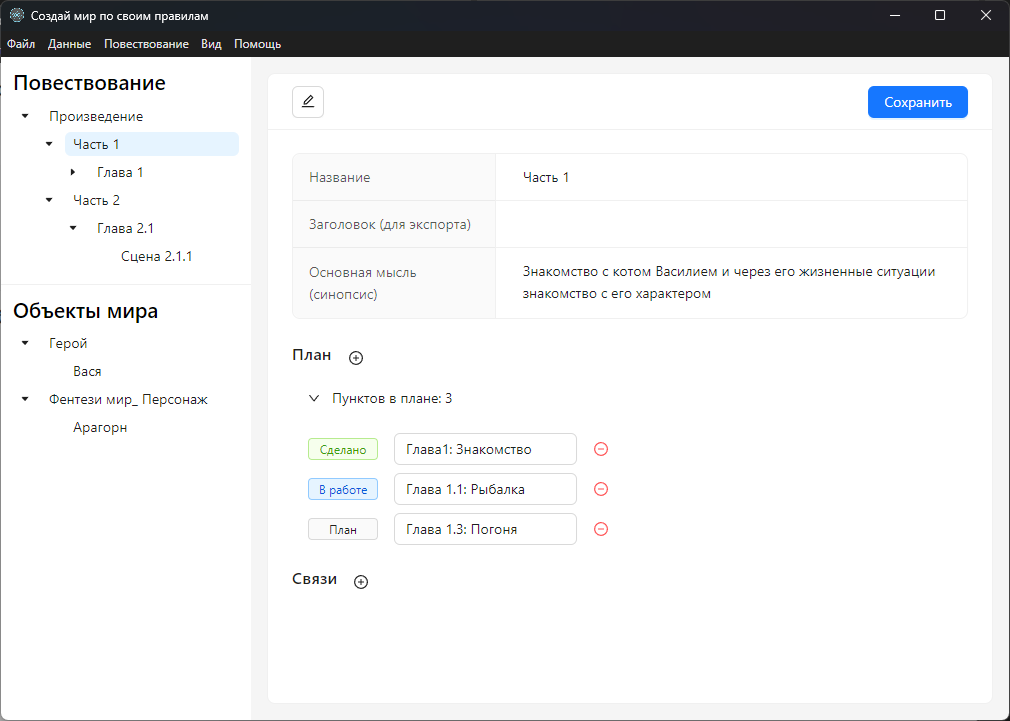
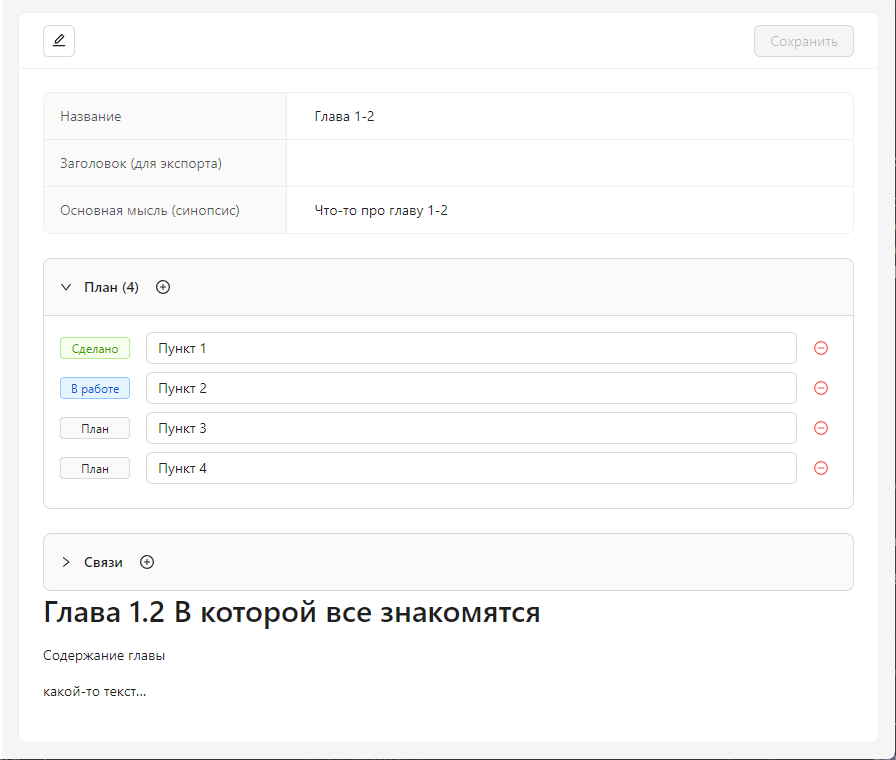
Redesign list data blocks

diff --git a/src/renderer/components/ContentDisplay/components/NarrativeDetails.tsx b/src/renderer/components/ContentDisplay/components/NarrativeDetails.tsx
@@ -1,5 +1,12 @@
 import React, { useState } from 'react';
-import { Input, Collapse, Button, Space, Tooltip, Descriptions } from 'antd';
+import {
+  Input,
+  Collapse,
+  Button,
+  Tooltip,
+  Descriptions,
+  Typography,
+} from 'antd';
 import { PlusCircleOutlined } from '@ant-design/icons';
 import ChecklistEditor from '../../ChecklistEditor';
 import AddPlanItemModal from '../../AddPlanItemModal';
@@ -34,7 +41,6 @@ const NarrativeDetails: React.FC<NarrativeDetailsProps> = ({
   const [isModalVisible, setIsModalVisible] = useState(false);
 
   const planItemsCount = plan ? plan.split('\n').filter(Boolean).length : 0;
-  const panelHeader = `Пунктов в плане: ${planItemsCount}`;
 
   const handleAddPlanItem = (newItems: string[]) => {
     if (newItems.length === 0) {
@@ -81,32 +87,41 @@ const NarrativeDetails: React.FC<NarrativeDetailsProps> = ({
           </Descriptions.Item>
         </Descriptions>
       </div>
-      <br />
 
-      <div>
-        <Space>
-          <h3>План</h3>
-          <Tooltip title="Добавить новый пункт плана">
-            <Button
-              type="text"
-              shape="circle"
-              icon={<PlusCircleOutlined />}
-              onClick={() => setIsModalVisible(true)}
-            />
-          </Tooltip>
-        </Space>
-      </div>
-      {planItemsCount > 0 && (
-        <Collapse
-          activeKey={planCollapseKey}
-          onChange={onPlanCollapseChange}
-          ghost
+      <Collapse
+        activeKey={planCollapseKey}
+        onChange={onPlanCollapseChange}
+        style={{ marginTop: '24px', marginBottom: '24px' }}
+        defaultActiveKey={['1']}
+      >
+        <Collapse.Panel
+          header={
+            <div className="uniform-collapse-header">
+              <Typography.Text strong>
+                План {planItemsCount > 0 && `(${planItemsCount})`}
+              </Typography.Text>
+              <Tooltip title="Добавить новый пункт плана">
+                <Button
+                  type="text"
+                  shape="circle"
+                  icon={<PlusCircleOutlined />}
+                  onClick={(e) => {
+                    e.stopPropagation();
+                    setIsModalVisible(true);
+                  }}
+                />
+              </Tooltip>
+            </div>
+          }
+          key="1"
         >
-          <Collapse.Panel header={panelHeader} key="1">
+          {planItemsCount > 0 ? (
             <ChecklistEditor value={plan || ''} onChange={onPlanChange} />
-          </Collapse.Panel>
-        </Collapse>
-      )}
+          ) : (
+            <p>Пунктов в плане пока нет. Добавьте первый!</p>
+          )}
+        </Collapse.Panel>
+      </Collapse>
       <AddPlanItemModal
         visible={isModalVisible}
         onOk={handleAddPlanItem}

diff --git a/src/renderer/components/ContentDisplay/components/ConnectionsManager.tsx b/src/renderer/components/ContentDisplay/components/ConnectionsManager.tsx
@@ -8,6 +8,7 @@ import {
   Collapse,
   Dropdown,
   Menu,
+  Typography,
 } from 'antd';
 import {
   PlusCircleOutlined,
@@ -126,25 +127,23 @@ const ConnectionsManager: React.FC<ConnectionsManagerProps> = ({
   const connectionsCount = connections ? connections.length : 0;
 
   const headerContent = (
-    <div className="connections-header">
-      <Space>
-        <h3>
-          Связи{' '}
-          {connectionsCount > 0 &&
-            `(${filteredConnections.length} / ${connectionsCount})`}
-        </h3>
-        <Tooltip title="Добавить новую связь">
-          <Button
-            type="text"
-            shape="circle"
-            icon={<PlusCircleOutlined />}
-            onClick={(e) => {
-              e.stopPropagation();
-              setIsModalVisible(true);
-            }}
-          />
-        </Tooltip>
-      </Space>
+    <div className="uniform-collapse-header">
+      <Typography.Text strong>
+        Связи{' '}
+        {connectionsCount > 0 &&
+          `(${filteredConnections.length} / ${connectionsCount})`}
+      </Typography.Text>
+      <Tooltip title="Добавить новую связь">
+        <Button
+          type="text"
+          shape="circle"
+          icon={<PlusCircleOutlined />}
+          onClick={(e) => {
+            e.stopPropagation();
+            setIsModalVisible(true);
+          }}
+        />
+      </Tooltip>
     </div>
   );
 
@@ -170,7 +169,7 @@ const ConnectionsManager: React.FC<ConnectionsManagerProps> = ({
 
   return (
     <div className="connections-section">
-      <Collapse defaultActiveKey={['1']} ghost>
+      <Collapse defaultActiveKey={['1']}>
         <Collapse.Panel header={headerContent} key="1">
           {connectionsCount === 0 ? (
             <p>Связей пока нет. Добавьте первую!</p>

diff --git a/src/renderer/components/ContentDisplay/components/AttachedFiles.tsx b/src/renderer/components/ContentDisplay/components/AttachedFiles.tsx
@@ -1,5 +1,5 @@
 import React, { useState, useEffect, useRef } from 'react';
-import { Button, List, Collapse } from 'antd';
+import { Button, List, Collapse, Typography } from 'antd';
 import notificationService from '../../../services/notificationService';
 
 interface AttachedFilesProps {
@@ -83,7 +83,13 @@ const AttachedFiles: React.FC<AttachedFilesProps> = ({
   return (
     <Collapse style={{ marginBottom: '24px' }}>
       <Collapse.Panel
-        header={`Дополнительные файлы (${attachedFiles.length})`}
+        header={
+          <div className="uniform-collapse-header">
+            <Typography.Text strong>
+              {`Дополнительные файлы (${attachedFiles.length})`}
+            </Typography.Text>
+          </div>
+        }
         key="1"
       >
         <List

diff --git a/src/renderer/App.css b/src/renderer/App.css
@@ -351,3 +351,15 @@
   border: 1px solid #eee;
   border-radius: 8px;
 }
+
+.uniform-collapse-header {
+  display: flex;
+  align-items: center;
+  gap: 8px;
+  min-height: 32px;
+}
+
+/* Fix for ant-collapse-expand-icon vertical alignment */
+.ant-collapse-expand-icon {
+  height: 32px;
+}

diff --git a/docs/development_process.md b/docs/development_process.md
@@ -6,6 +6,7 @@
 
 ## 19 Мая 2026 г
 
+* **Унификация отображения списков:** Выполнена унификация отображения заголовков сворачиваемых панелей ("Дополнительные файлы", "План", "Связи"). Заголовки теперь используют единый `div` с Flexbox-стилями (`display: flex`, `align-items: center`, `gap: 8px`, `min-height: 32px`). Инлайн-стили были вынесены в CSS-класс `.uniform-collapse-header` в `App.css`. Также исправлено вертикальное выравнивание иконки сворачивания Ant Design.
 * **Принудительное автоматическое сохранение:** Реализовано принудительное автоматическое сохранение текущего редактируемого объекта в renderer-процессе перед выполнением операций закрытия или архивации проекта в main-процессе. Это предотвращает потерю данных, которые могли быть несохранены пользователем.
 * **Планирование спринта v0.2.4:** Составлен и утвержден план работ на следующий спринт. План сфокусирован на погашении технического долга, улучшении архитектуры и исправлении багов. Итоговый план сохранен в файле `docs/planing/plan_v0_2_4.md`.
 * **Имя шаблона при экспорте:** Удален избыточный префикс имени проекта из имен шаблонов World Object при экспорте, так как механизм обнаружения конфликтов сделал его избыточным.

diff --git a/docs/planing/plan_v0_2_4.md b/docs/planing/plan_v0_2_4.md
@@ -42,6 +42,6 @@
     * **Описание:** Удалить префикс имени проекта из имени шаблона при экспорте World Objects, так как он стал избыточным после внедрения механизма обнаружения конфликтов.
     * **Оценка:** 1 день
 
-10. **Унификация отображения списков**
+10. ✅ **Унификация отображения списков**
     * **Описание:** Привести внешний вид списков (дополнительные файлы, план повествования, связи) к единому стандарту, чтобы в свернутом состоянии они выглядели одинаково.
     * **Оценка:** 1 день

diff --git a/CHANGELOG.md b/CHANGELOG.md
@@ -11,6 +11,7 @@ and this project adheres to [Semantic Versioning](https://semver.org/spec/v2.0.0
 
 ### Changed at [0.2.4]
 
+- Standardized the appearance of collapsible list panels (Attached Files, Narrative Plan, Connections) to ensure consistent height and vertical alignment in their collapsed state.
 - Removed redundant project name prefix from exported World Object template names.
 
 ### Fixed at [0.2.4]
